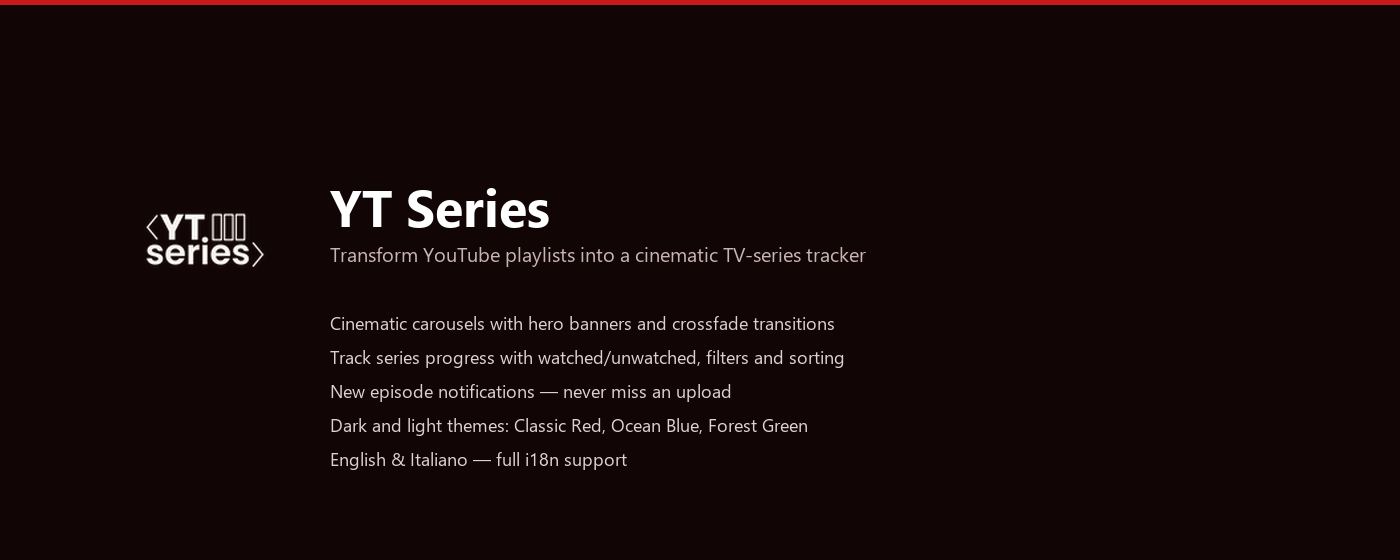
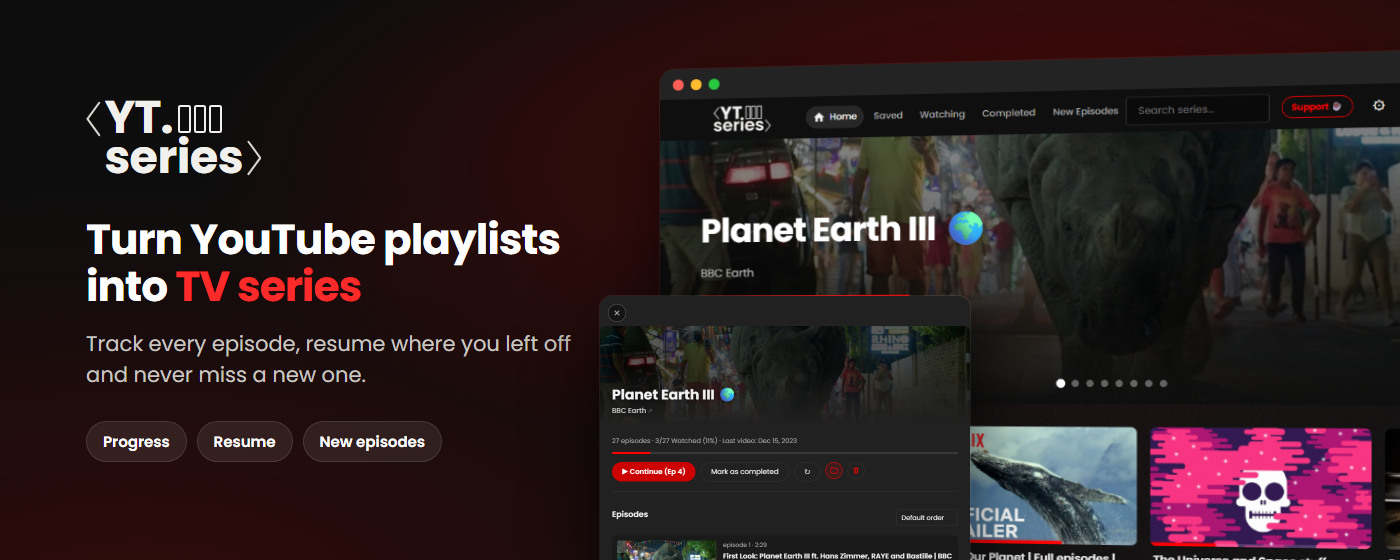
feat(store): promo tiles rendered from the real dashboard
npm run promo renders the small (440×280) and marquee (1400×560) Chrome Web
Store promo tiles as 24-bit PNGs: vector wordmark, one-line pitch and the
store screenshots in a browser frame. Replaces the June text-only tiles.

diff --git a/docs/knowledge/08-dev-workflow.md b/docs/knowledge/08-dev-workflow.md
@@ -16,6 +16,7 @@
 - **Smoke**: `npm run smoke` (after build) loads `dist/` in Chromium via Playwright: message API, dashboard flows, content script on stubbed youtube.com, popup, axe audit. `SMOKE_SCREENSHOTS=<dir>` saves screenshots
 - **E2E**: `npm run e2e` (after build) drives every dashboard feature, the popup and the content script with a stubbed YouTube Worker (no network): add/search/detail/collections/activity/settings/import-export/backups/reset/footer, error states (outage, quota, not found), keyboard paths, 375 px layout, axe in all four themes. `E2E_ARTIFACTS=<dir>` keeps screenshots; failures are screenshotted and the run continues
 - **Store screenshots**: `npm run screenshots` (after build) captures the five 1280×800 Chrome Web Store screenshots into `src/assets/store/screenshots/`, adding the real playlists in `scripts/store-library.mjs` through the live Worker (needs network)
+- **Store promo tiles**: `npm run promo` renders `src/assets/store/promo-small.png` (440×280) and `promo-marquee.png` (1400×560) from the store screenshots
 - **Typecheck**: `npm run typecheck` (`tsc` on JSDoc; files opt in with `// @ts-check`)
 - **All gates**: `npm run check`
 - **Reload**: Click refresh on extension card in `chrome://extensions`

diff --git a/STORE-CWS-LISTING.md b/STORE-CWS-LISTING.md
@@ -50,8 +50,10 @@ English, Italian
 5. `screenshot-05-activity.png` — Recent activity, My Series and recommendations from your channels (Forest)
 
 ## Promo Images
-- Small promo tile (440x280)
-- Marquee promo (1400x560)
+24-bit PNG (no alpha), in `src/assets/store/`. Regenerate with `npm run promo` (after `npm run screenshots`: the tiles reuse the dashboard and detail screenshots).
+
+- Small promo tile (440×280): `promo-small.png`
+- Marquee promo tile (1400×560): `promo-marquee.png`
 
 ## Website
 https://github.com/LorenzoPrincigalli/YtSeries
